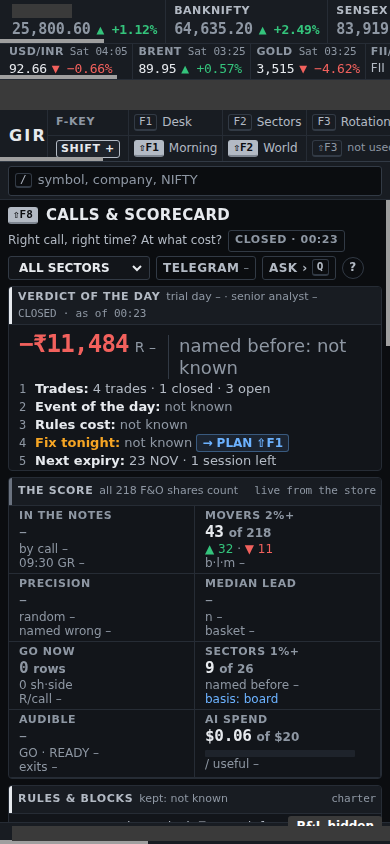
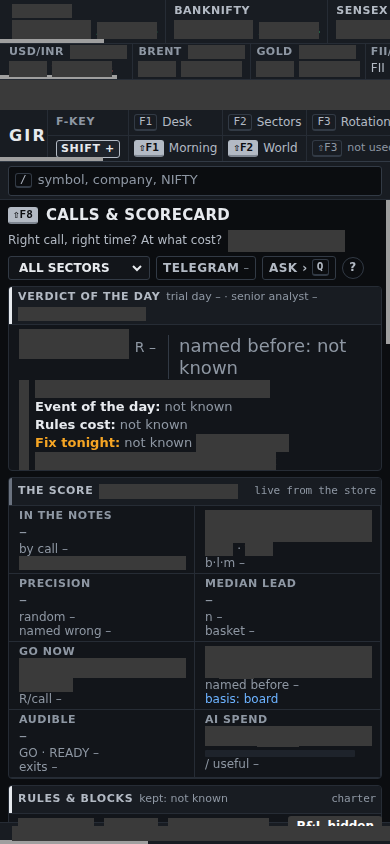
monday: 00:29 desk 00:30/00:35/00:25/00:20: replacements switching live, warning chips, nav, Monday feed check

diff --git a/intraday_patches/monday/STATUS.md b/intraday_patches/monday/STATUS.md
@@ -2,7 +2,7 @@
 
 One row per checklist item (MONDAY_READY.md). Proof files are in this folder. An item without proof is NOT DONE.
 
-Last update: 00:28 IST
+Last update: 00:29 IST
 
 | item | status | note | proof | time |
 |---|---|---|---|---|
@@ -69,10 +69,9 @@ Last update: 00:28 IST
 | J16 Code freeze Sun 16:00 | NOT STARTED | Sun 16:00 |  |  |
 
 ## WAITING FOR TRADER (approve in the morning; overnight rule: steps needing approval are skipped and listed here, all other work carries on)
-- 00:24: TWO SITES STILL READ BY POSING AS A BROWSER (robots.txt says no): Yahoo's chart API and Nasdaq's API. Replacements are BUILT and running in shadow since 23:39 (NO_DISGUISE_REPLACEMENTS.md): Bitcoin / Ether from Kraken (price within 0.07%, shock flags agreed 9/9); US closes / money map / world quotes from finance.yahoo.com pages robots allows (19/19 funds identical, 26/28 quotes exact) - but still Yahoo's data, so rule on Yahoo's terms too; peers' results dates from Yahoo quote pages (found AVGO 9 Dec that Nasdaq missed; Micron 16 vs 17 Dec to confirm). IMPORTANT: the US 2-year shock gauge has been DEAD since ~13 Oct (Yahoo's 2-year future stopped trading - the 15 bp check never ran); US Treasury's daily par yield replaces it (4.63%, -13 bp on 20 Nov; daily only, ~03:00-05:00 IST). Choose: switch now (recommended at least for the 2-year gauge and crypto) or keep the old feeds. Also asked: repeat the NSE / BSE declared-name test once in market hours (all 17 endpoints answered the declared name on Saturday night) before switching them. The Supreme Court site needed no replacement - switched to the declared name (00:24).
 - 00:04: UNMASKED SCREENSHOTS IN GIT HISTORY. The reviewer removed F_newsfilter_shots / F_sort_shots / F_search_shots from the branch tip (00:20), but the earlier commits still hold them (header P&L strip, and the News page 'YOUR 3 TRADES' box with your rupee P&L). Removing them from history needs a history rewrite of the branch (force push) - your yes needed, as the desk said. Recommended: yes, rewrite only intraday_patches/monday/F_*_shots from history.
 - 00:28: NIFTY TREND-DAY LINE EXPIRY: BANKNIFTY lines say Dec ATM CE / PE (your order); NIFTY lines use the NEXT WEEKLY ATM (the index desk's risk rule, index options next weekly 1 Dec). Keep weekly for NIFTY, or December for both?
-ANSWERED (desk 22:35): RBI lines stay LIVE on Telegram (rule 8) · Friday / weekend slow mode only after the 19:45 brief - building · F&O-company items never hidden, non-market ones in a folded "company - minor" lane under that share - building · GitHub token -> credential helper after the Sunday rotation - will do then.
+ANSWERED (desk 00:30): Yahoo chart API + Nasdaq API -> SWITCH the replacements live now, old readers parked one week - switching (00:29). Unmasked shots in git history: still waiting (repo private, or a history clean). ANSWERED (desk 22:35): RBI lines stay LIVE on Telegram (rule 8) · Friday / weekend slow mode only after the 19:45 brief - building · F&O-company items never hidden, non-market ones in a folded "company - minor" lane under that share - building · GitHub token -> credential helper after the Sunday rotation - will do then.
 
 
 ## Notes for the desk
@@ -1062,3 +1061,4 @@ ANSWERED (desk 22:35): RBI lines stay LIVE on Telegram (rule 8) · Friday / week
 - 00:14 (server clock) - DESK 22 Nov 01:15 read (the trader: 'test again with one trading day - 20 Nov - no flaws, then we start'; real-model spend approved ~$7-10, own replay ledger). ORDER APPLIED: A first - the four fix builders (decision sheet + fixes 5-10, head budget 01:05 + fix 1, mover watch / seat cards / trigger-met fixes 2-4, live TREND DAY line 00:35) were told to land and report as fast as safely possible; their separate simulated replays / proofs dropped (the dress rehearsal is the real proof). B as soon as all four have landed: FULL DRESS REHEARSAL of Fri 20 Nov 07:00 -> 15:45 point in time on the REAL models, knowledge snapshot controlled (nothing after 20 Nov 07:00 visible), the full desk + pages + the Telegram path into a capture file (replay no-Telegram flag ON - nothing to his channel), graded on the 9 pass criteria (head refused 0, briefs delivered, spend <= $10; decision sheet 07:15 / 09:08 with his 3 PEs first; RBI 10:20 + 13:40 lines within 5 min; BANKNIFTY trend line by ~11:30; mover watch for the 12 named shares within 5 min; never silent 10:30 / 13:00 / 15:15; message format; pages at 09:20 / 11:30 / 14:30 masked; every call scored). Output DRESS_20NOV.md + DRESS_20NOV_telegram.txt; any FAIL -> fix -> re-run that part; target before Sun 15:00. The page / freshness work keeps running beside it (own deadlines 15:00 / 16:00).
 - 00:24 (server clock) - NO DISGUISE: Supreme Court cause lists now read with GIR's declared name (the 403 seen at 23:2x did not repeat; byte-identical files) - nothing lost. Replacements for Yahoo's chart API and Nasdaq's API built and shadow-proved (NO_DISGUISE_REPLACEMENTS.md; nothing live switched) - choice under WAITING FOR TRADER, incl. the finding that the US 2-year gauge has been dead since ~13 Oct. NSE (11 endpoints) and BSE (7) all answered the declared name on Saturday night (one request each, 6 s apart) - to be re-checked once in market hours before any switch.
 - 00:24 (server clock) - DESK 00:35 LIVE TREND-DAY LINE DONE (live in gir-v2desk since 00:17; also wired into the rehearsal tool, so the dress rehearsal runs it): after 10:00 (to the index desk's last entry 14:30 / 13:30 Monday), index >= 0.8% from its day low (CE) / high (PE), futures on the right side of their VWAP, heavyweights met (4 of 5 banks / 6 of 8 NIFTY) -> one block 'BANKNIFTY TREND DAY · CE SIDE' with 7 short facts (move from low, banks above VWAP, cause, READY - your call, Dec ATM CE, stop futures VWAP, Grade B - not proven), max 2 a day per index, WOULD SEND until the ring test. FRI 20 NOV REPLAY: BANKNIFTY CE at 10:00 (+2.22% index to 15:10, VWAP stop never hit) and NIFTY CE at 10:38 (+0.99%). Scored at 15:45 + its own section in the Friday week-1 scorecard. TREND-DAY STUDY (TREND_DAY_STUDY.md, $0): 12 rules x 4 check times, hold to 15:10 with trailing exits, tuning Dec 2023-Dec 2025 vs unseen 2026, random baseline, option proxy with costs, Holm over 92 tests: NOT PROVEN - best unseen rule (opening-range break + rising VWAP + breadth, NIFTY PE) n 48, hit 44% vs 37% random, option +9.6% a trade vs +0.1%, fails the lift bound and Holm; the live BANKNIFTY CE rule unseen n 48, hit 35% vs 35% random. So the line stays grade B ('your call'), as the desk ordered. Fri 20 Nov at 10:00: +0.97% from the low, 5 of 5 banks above VWAP - the live rule, gap-down reclaim, opening-range break, PVT BANK and RBI rules all fired. Note: NIFTY lines use the next weekly ATM (the index desk's risk rule), not December - say if December is wanted for NIFTY too.
+- 00:29 (server clock) - DESK 00:30 / 00:35 / 00:25 / 00:20 read. BUILDING NOW beside the 01:15 fixes (separate builders, so the dress rehearsal is not delayed): (1) 00:30 - Yahoo chart API + Nasdaq API replacements SWITCHED LIVE now (Kraken crypto, US Treasury 2-year, allowed finance.yahoo.com pages for closes / money map / world quotes / peers' dates), old readers parked behind a flag until Sun 29 Nov; afterwards nothing fetches those two hosts. (2) 00:35 BLUESTARCO warning chips on the share page + desk input (Telegram only for held positions and the day's sheet names): OPENING TRAP (gap >= 2% after a >= 5% day), VWAP lost / reclaimed with the move's RVOL (a low-volume cross is never an entry), LOW-VOLUME DRIFT (30-min RVOL < 0.7, range shrinking - time decay warning), FAILED BREAK; each tested on the 3-year minute store (labelled 'information' until it passes); the chart note 'session VWAP resets at 09:15'. (3) 00:25 NAV: Shift+F3 = 'Money map' (the global money map already built) or the empty slot hidden; 'F5 off / no reload' only in Help. (4) 00:20 MONDAY CHECK: COMEX gold / silver / copper, NYMEX crude / gas, US futures and the dollar must show LIVE from Mon 04:30 IST; automatic check at 07:00 every trading day -> P1 with the feed named if any is still 'closed' / stale (MCX from 09:00).
